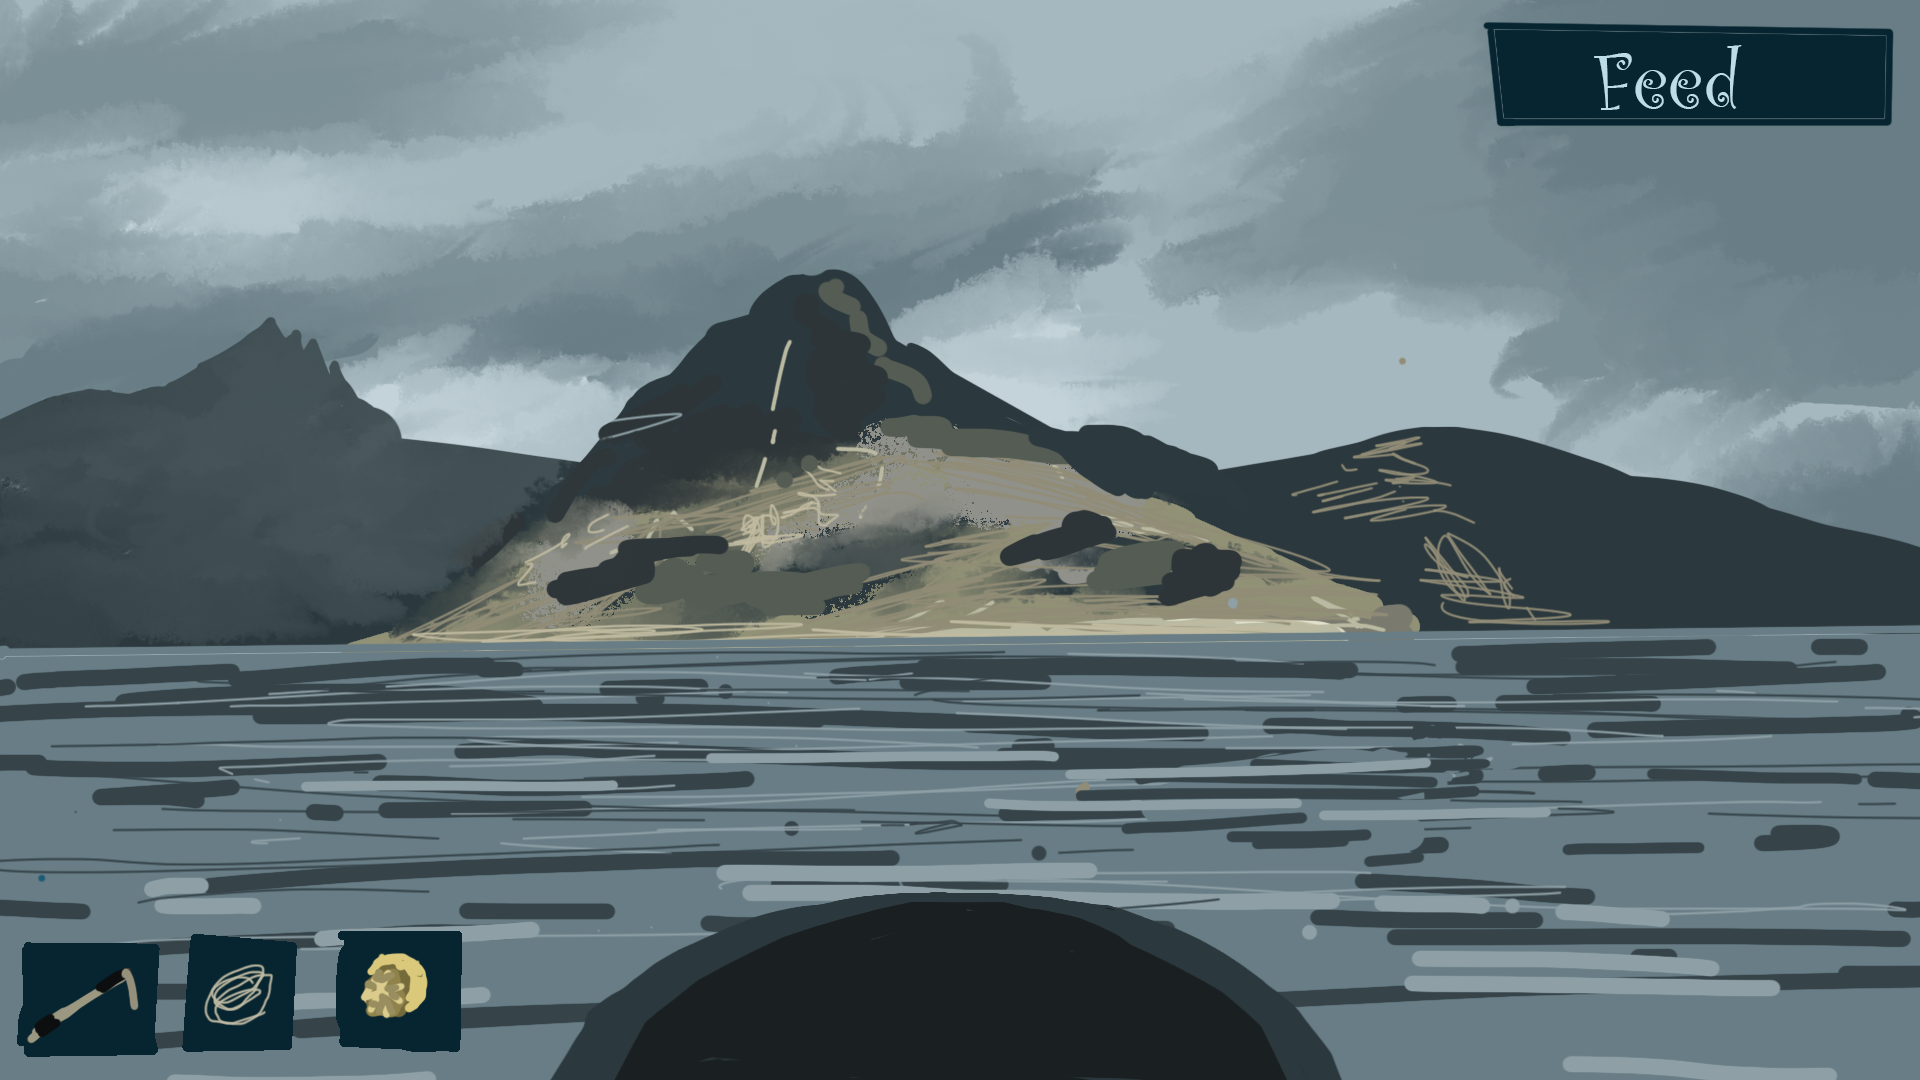
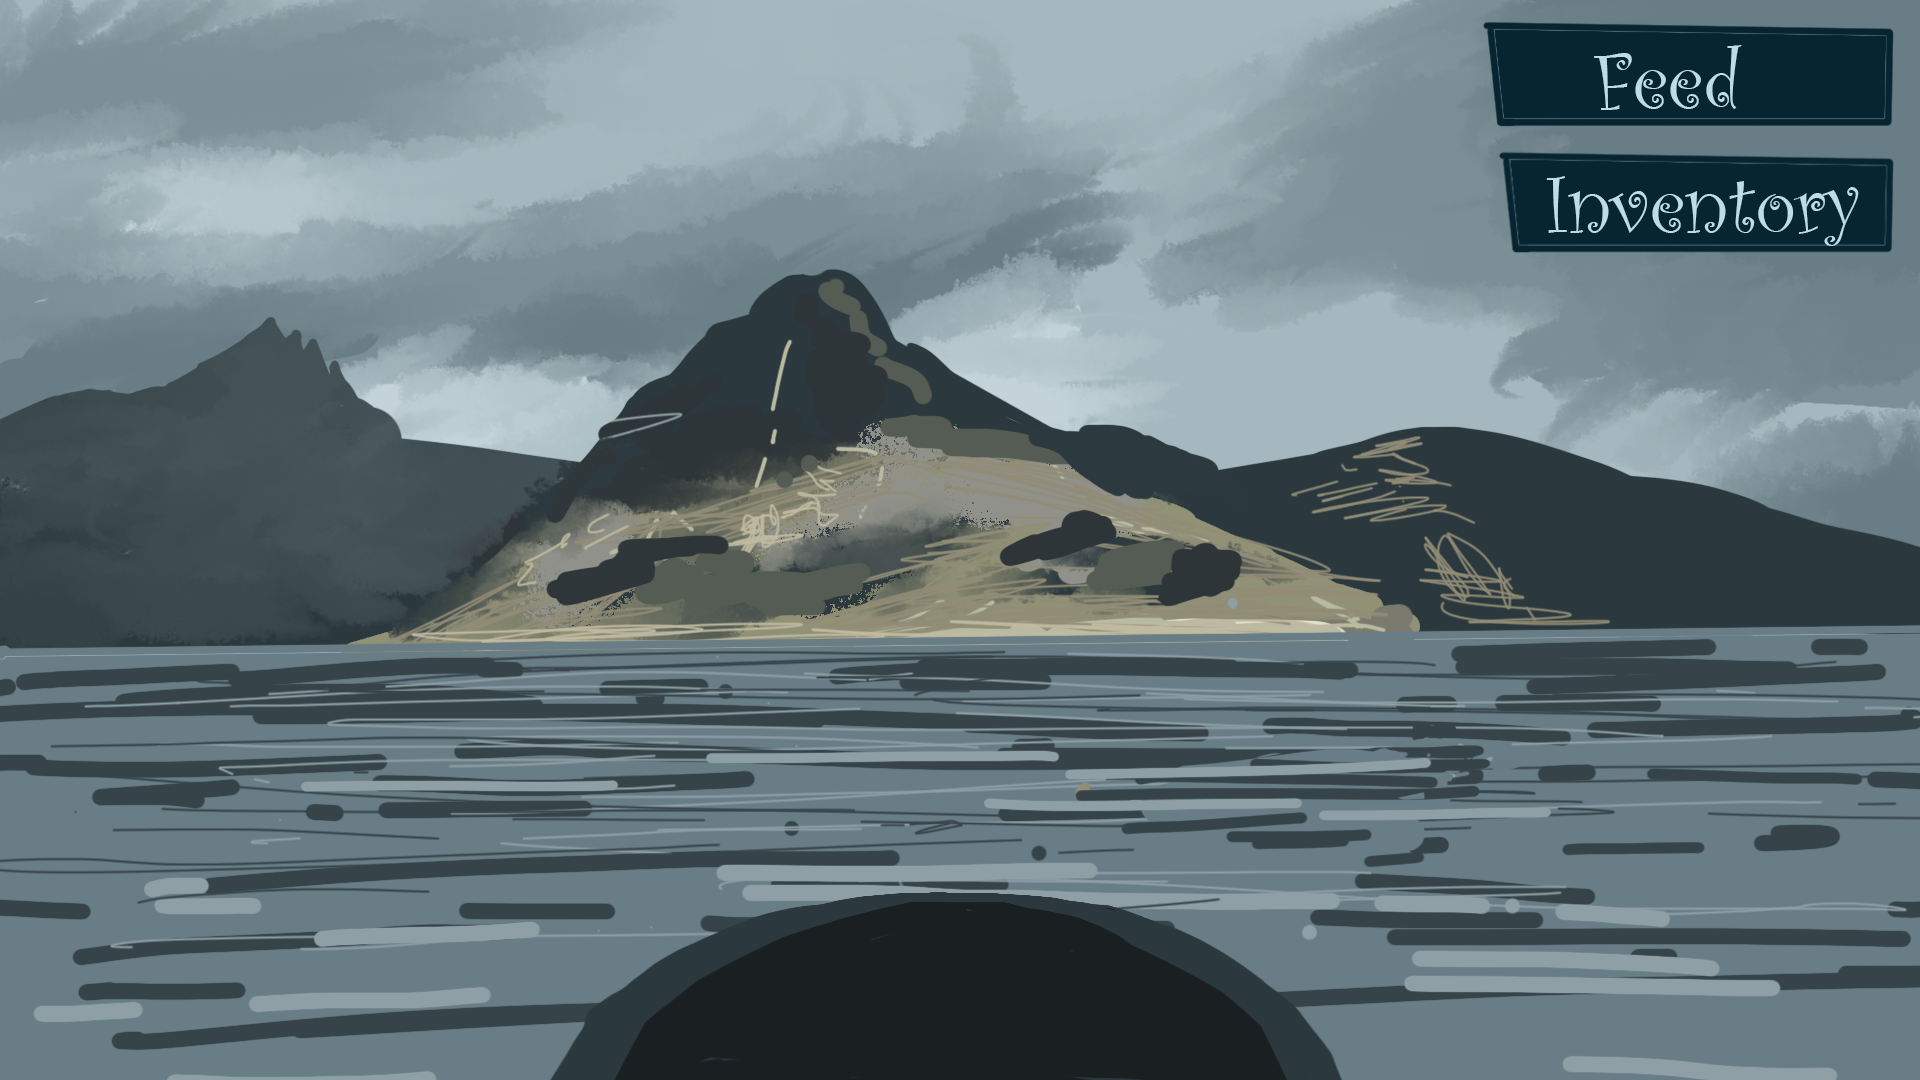
added propper game assets and improved reward function

Changed region(s): [[0.0, 0.8556, 0.25, 0.9778], [0.7812, 0.1222, 1.0, 0.2444]]

diff --git a/assets/file.js b/assets/file.js
@@ -49,7 +49,7 @@ let loot = [
     { type:"junk", name:"Tin Can", rarity:"Common", reelTime:15 },
     { type:"junk", name:"Broken Net", rarity:"Common", reelTime: 60 },
     { type:"junk", name:"Ancient Sword", rarity:"Epic", reelTime: 105 },
-    { type:"junk", name:"Gold Ring", rarity:"Legendary", reelTime: 140 },
+    { type:"junk", name:"Gold Ring", rarity:"Legendary", reelTime: 140 }
     ];
 let randomFish;
 let fishReelTime;
@@ -65,9 +65,24 @@ let playerInventory = {
 }
 
 
-playerInventory.gear.push({ type:'rod', name: 'Stick Fishing Rod', description:'normal stick with a wire stuck to it', speed: 2, spawnBonus:0.5, status: "active" },
-{type:'line', name:'yarn Line', description:'very weak line', strength:20 , status: "active"});
-playerInventory.bait.push({ type: 'bait', name: 'Worm', quantity: 20, lure:15, spawnTime: 3000, status: "active" });
+playerInventory.gear.push({ type:'rod', name: 'Stick Fishing Rod', description:'normal stick with a wire stuck to it', speed: 2, spawnBonus:0.5, status: "active", s:{x: 1,y:0} },
+{type:'line', name:'yarn Line', description:'very weak line', strength:20 , status: "active", s:{x: 0,y:1}});
+playerInventory.bait.push({ type: 'bait', name: 'Worm', quantity: 20, lure:15, spawnTime: 3000, status: "active", s:{x: 0,y:0} });
+
+playerInventory.loot.push(
+    { type:"fish", name:"Bass", rarity:"Common", reelTime: 40 },
+    { type:"fish", name:"Trout", rarity:"Common", reelTime: 30 },
+    { type:"fish", name:"Pike", rarity:"Common", reelTime: 55 },
+    { type:"fish", name:"Walleye", rarity:"Common", reelTime: 35 },
+    { type:"fish", name:"Carp", rarity:"Common", reelTime: 45 },
+    { type:"fish", name:"Sauger", rarity:"Rare", reelTime:70 },
+    { type:"fish", name:"Blue Catfish", rarity:"Rare", reelTime: 80 },
+    { type:"fish", name:"Black Crappie", rarity:"Rare", reelTime: 75 },
+    { type:"fish", name:"White Crappie", rarity:"Epic", reelTime:90 },
+    { type:"junk", name:"Swimming Goggles", rarity:"Rare", reelTime: 25 },
+    { type:"junk", name:"Tin Can", rarity:"Common", reelTime:15 },
+    { type:"junk", name:"Broken Net", rarity:"Common", reelTime: 60 }
+)
 
  
 //An Phaist vars
@@ -76,31 +91,32 @@ let APhaistResponse = "you have no fish I might need to eat YOU!!!!";
 let responding = false;
 
 // rewards that you can get from giveing fish
+let rewardMessage = "";
 let Rewards = {
     gear:[
         // rods
-        { type:'rod', rarity:"Common", name: 'Childrens fishing rod', description:'Just about better than a stick', speed: 3, spawnBonus:0, status: "inActive" },
-        { type:'rod', rarity:"Rare", name: 'Trolling rod', description:'Perfect for fishing on a boat', speed: 5, spawnBonus:0, status: "inActive" },
-        { type:'rod', rarity:"Epic", name: 'Composite trolling rod', description:'Strong and light weight', speed: 6, spawnBonus:0.2, status: "inActive" },
-        { type:'rod', rarity:"Legendary", name: 'Graphite trolling rod', description:'The ultimate rod', speed: 8, spawnBonus:0.4, status: "inActive" },
+        { type:'rod', rarity:"Common", name: 'Childrens fishing rod', description:'Just about better than a stick', speed: 3, spawnBonus:0, status: "inActive", s:{x: 0,y:0} },
+        { type:'rod', rarity:"Rare", name: 'Trolling rod', description:'Perfect for fishing on a boat', speed: 5, spawnBonus:0, status: "inActive", s:{x: 2,y:0}  },
+        { type:'rod', rarity:"Epic", name: 'Composite trolling rod', description:'Strong and light weight', speed: 6, spawnBonus:0.2, status: "inActive", s:{x: 3,y:0}  },
+        { type:'rod', rarity:"Legendary", name: 'Graphite trolling rod', description:'The ultimate rod', speed: 8, spawnBonus:0.4, status: "inActive", s:{x: 3,y:0}  },
 
         // line
-        { type:'line', rarity:"Common", name:'Old fishing line', description:'better than yarn atleast', strength:30, status: "inActive" },
-        { type:'line', rarity:"Rare", name:'Monofilament Line', description:'cheap basic fishing line', strength:35, status: "inActive" },
-        { type:'line', rarity:"Epic", name:'Fluorocarbon Fishing Line', description:'Perfect complement to braid', strength:65, lureBonus: 0.2, status: "inActive" },
-        { type:'line', rarity:"Legendary", name:'Spiderwire Braid', description:'The ultimate fishing line', strength:75, lureBonus:0.4, status: "inActive" }
+        { type:'line', rarity:"Common", name:'Old fishing line', description:'better than yarn atleast', strength:30, status: "inActive", s:{x: 1,y:1} },
+        { type:'line', rarity:"Rare", name:'Monofilament Line', description:'cheap basic fishing line', strength:35, status: "inActive", s:{x: 2,y:1} },
+        { type:'line', rarity:"Epic", name:'Fluorocarbon Fishing Line', description:'Perfect complement to braid', strength:65, lureBonus: 0.2, status: "inActive", s:{x: 3,y:1} },
+        { type:'line', rarity:"Legendary", name:'Spiderwire Braid', description:'The ultimate fishing line', strength:75, lureBonus:0.4, status: "inActive", s:{x: 4,y:1} }
     ],
     bait:[
-        { type: 'bait', rarity:"Common", name: 'Worm', quantity: 20, lure:15, spawnTime: 3000, status: "inActive" },
-        { type: 'bait', rarity:"Common", name: 'Shrimp', quantity: 20, lure:20, spawnTime: 3000, status: "inActive" },
-        { type: 'bait', rarity:"Common", name: 'Fish Food', quantity: 5, lure:25, spawnTime: 2500, status: "inActive" },
-        { type: 'bait', rarity:"Rare", name: 'Cheese', quantity: 10, lure:25, spawnTime: 2250, status: "inActive" },
-        { type: 'bait', rarity:"Rare", name: 'Basic Lure', quantity: 100, lure:20, spawnTime: 2500, status: "inActive" },
-        { type: 'bait', rarity:"Epic", name: 'Minnow', quantity: 7, lure:30, spawnTime: 500, status: "inActive" },
-        { type: 'bait', rarity:"Epic", name: 'Special Lure', quantity: 100, lure:30, spawnTime: 1500, status: "inActive" },
-        { type: 'bait', rarity:"Epic", name: 'Golden Fish Food', quantity: 3, lure:35, spawnTime: 4000, status: "inActive" },
-        { type: 'bait', rarity:"Legendary", name: 'Golden Special Lure', quantity: 100, lure:35, spawnTime: 1500, status: "inActive" },
-        { type: 'bait', rarity:"Legendary", name: 'True Bait', quantity: 5, lure:40, spawnTime: 1500, status: "inActive" }
+        { type: 'bait', rarity:"Common", name: 'Worm', quantity: 20, lure:15, spawnTime: 3000, status: "inActive", s:{x: 0,y:0} },
+        { type: 'bait', rarity:"Common", name: 'Shrimp', quantity: 20, lure:20, spawnTime: 3000, status: "inActive", s:{x: 1,y:0} },
+        { type: 'bait', rarity:"Common", name: 'Fish Food', quantity: 5, lure:25, spawnTime: 2500, status: "inActive", s:{x: 2,y:0} },
+        { type: 'bait', rarity:"Rare", name: 'Cheese', quantity: 10, lure:25, spawnTime: 2250, status: "inActive", s:{x: 3,y:0} },
+        { type: 'bait', rarity:"Rare", name: 'Basic Lure', quantity: 100, lure:20, spawnTime: 2500, status: "inActive", s:{x: 0,y:1} },
+        { type: 'bait', rarity:"Epic", name: 'Minnow', quantity: 7, lure:30, spawnTime: 500, status: "inActive", s:{x: 1,y:1} },
+        { type: 'bait', rarity:"Epic", name: 'Special Lure', quantity: 100, lure:30, spawnTime: 1500, status: "inActive", s:{x: 2,y:1} },
+        { type: 'bait', rarity:"Epic", name: 'Golden Fish Food', quantity: 3, lure:35, spawnTime: 4000, status: "inActive", s:{x: 3,y:0} },
+        { type: 'bait', rarity:"Legendary", name: 'Golden Special Lure', quantity: 100, lure:35, spawnTime: 1500, status: "inActive", s:{x: 0,y:2} },
+        { type: 'bait', rarity:"Legendary", name: 'True Bait', quantity: 5, lure:40, spawnTime: 1500, status: "inActive", s:{x: 1,y:2} }
     ]
 }
 
@@ -108,11 +124,25 @@ let gameOverMessage = "you ran out of bait";
 
 // image setup
 //=======================================================
+const ITEM_FRAME = 100;
+
 let background = new Image();
 background.src = "assets/img/Background + UI elements.png";
 
 let feedingBackground = new Image();
 feedingBackground.src = "assets/img/Dingle storyboard feeding.png";
+
+let baitAssets = new Image();
+baitAssets.src = "assets/img/Bait assets.png";
+
+let baitItem = new GameObject(baitAssets,50,825,ITEM_FRAME,ITEM_FRAME);
+
+let gameAssets = new Image();
+gameAssets.src = "assets/img/Game assets.png";
+
+let rodItem = new GameObject(gameAssets,100 +ITEM_FRAME,825,ITEM_FRAME,ITEM_FRAME);
+
+let lineItem =  new GameObject(gameAssets,150 +ITEM_FRAME+ITEM_FRAME,825,ITEM_FRAME,ITEM_FRAME);
 
 
 // audio setup
@@ -236,7 +266,13 @@ function draw() {
         }
         contextText.fillStyle = "white";
         contextText.font = "50px Arial";
-        contextText.fillText(getBaitQuantity(), 390, 930);
+        contextText.fillText(getBaitQuantity(), baitItem.x, baitItem.y );
+
+        // Item UI
+        drawItem(baitItem, playerInventory.bait.find(item => item.status == "active"));
+        drawItem(rodItem, playerInventory.gear.find(item => item.status == "active" && item.type == "rod"));
+        drawItem(lineItem, playerInventory.gear.find(item => item.status == "active" && item.type == "line"));
+
     }
     if (feeding == true)
     {
@@ -246,6 +282,9 @@ function draw() {
             contextText.fillStyle = "white";
             contextText.font = "50px Arial";
             contextText.fillText("An Phaist: "+ APhaistResponse, 150, 60);
+            contextText.fillStyle = "white";
+            contextText.font = "50px Arial";
+            contextText.fillText(rewardMessage,150,850);
         }
 
     }
@@ -281,6 +320,18 @@ function draw() {
     }
 }
 
+
+function drawItem(sprite, data){
+
+    context.drawImage(sprite.spritesheet,data.s.x * ITEM_FRAME, data.s.y * ITEM_FRAME,ITEM_FRAME,ITEM_FRAME, 
+        sprite.x,
+        sprite.y,
+        ITEM_FRAME,
+        ITEM_FRAME
+        );
+
+}
+
 function getRandomItemByRarity(rarity) {
     // Filter the rewards by the given rarity
     let itemsByRarity = Rewards.gear.concat(Rewards.bait).filter(item => item.rarity === rarity);
@@ -308,12 +359,27 @@ function rewardPlayerForFish(fish) {
 
     // Add the reward to the player's inventory based on its type
     if (reward.type === 'rod' || reward.type === 'line') {
+        // Add gear to player's inventory
         playerInventory.gear.push(reward);
+
+        // Find and remove the gear item from the Rewards.gear array
+        let rewardIndex = Rewards.gear.findIndex(item => item.name === reward.name);
+        if (rewardIndex !== -1) {
+            Rewards.gear.splice(rewardIndex, 1); // Remove the item from the rewards
+        }
     } else if (reward.type === 'bait') {
-        playerInventory.bait.push(reward);
+        // Check if the player already has the bait
+        let existingBait = playerInventory.bait.find(b => b.name === reward.name);
+        if (existingBait) {
+            // Increase the quantity of the existing bait
+            existingBait.quantity += reward.quantity;
+        } else {
+            // Add the new bait to the inventory
+            playerInventory.bait.push(reward);
+        }
     }
 
-    console.log(`You caught a ${fish.name} (${fish.rarity}) and received a ${reward.name}!`);
+    rewardMessage = `You caught a ${fish.name} (${fish.rarity}) and received a ${reward.name}!`;
 }
 
 
@@ -420,7 +486,8 @@ function feed()
     }
     else
     {
-        rewardPlayerForFish(playerInventory.loot.find(item => item.type === "fish"));
+
+        rewardPlayerForFish(playerInventory.loot.findLast(item => item.type === "fish" || item.type === "junk"));
         APhaistResponse = "That's a tasty " + playerInventory.loot[playerInventory.loot.length - 1].name;
         console.log(playerInventory)
         playerInventory.loot.pop();

diff --git a/assets/inputHandler.js b/assets/inputHandler.js
@@ -141,12 +141,12 @@ function mouseInput(event)
             fishing = false;
         }
 
-        if (mouseX >= ratioX*1800 && mouseX <= ratioX*1920 && mouseY >= 300*ratioY && mouseY <= 450*ratioY) 
-            {
-                fishing = false;
-                inventory = true;
-                responding = false;
-            }
+        if (mouseX >= ratioX*1500 && mouseX <= ratioX*1900 && mouseY >= 300*ratioY && mouseY <= 420*ratioY) 
+        {
+            fishing = false;
+            inventory = true;
+            responding = false;
+        }
     }
     if(feeding)
     {
